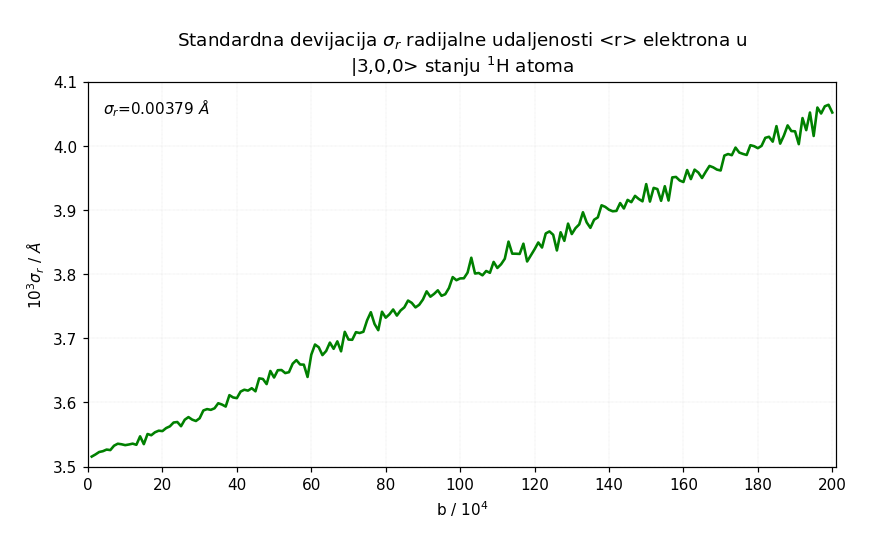
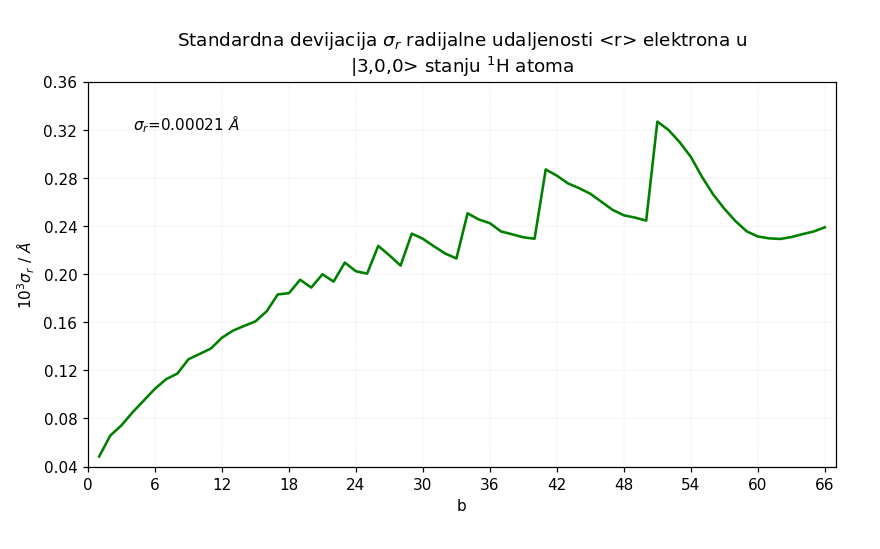
shit

diff --git a/Vjez7_error_block/Z7_H300.py b/Vjez7_error_block/Z7_H300.py
@@ -7,15 +7,15 @@ import matplotlib.ticker as tick
 U ovom kodu racuna se standardna devijacija srednje udaljenosti iz "rNw_H300.dat".
 '''
 
-Nw = 10000  #broj setaca
+#Nw = 10000  #broj setaca
 Nkmax = 200
 
-'''with warnings.catch_warnings():
+with warnings.catch_warnings():
     warnings.simplefilter("ignore")
-    frNw = np.loadtxt('rNw_H300.dat', comments='#', max_rows=Nw*200, usecols=(1,2,3))
+    fr = np.loadtxt('r_H300.dat', comments='#', usecols=2)
 fstdev = open('st_dev_H300.dat', 'w') #file za graf
 
-N = len(frNw)
+N = len(fr)
 
 for Nk in range(1, Nkmax+1):
     Nb = N//Nk #koriste se samo cijeli blokovi
@@ -23,21 +23,20 @@ for Nk in range(1, Nkmax+1):
         continue
     Sfb, Sf2b = 0.0, 0.0 #suma srednjih vrijednosti po bloku
     for b in range(Nb):
-        block = frNw[b*Nk : (b+1)*Nk]
-        r = np.linalg.norm(block, axis=1) #radijalna udaljenost
-        r_mean = np.mean(r)
-        Sfb += r_mean
-        Sf2b += r_mean**2
+        block = fr[b*Nk : (b+1)*Nk]  #uzima vrijednosti samo iz 2. stupca "r_H300.txt"
+        Sfk = np.sum(block)
+        Sfb += Sfk/Nk
+        Sf2b += (Sfk*Sfk)/(Nk*Nk)
     Smb = Sfb/Nb #srednja vrijednost
     var = ((Sf2b/Nb)-Smb**2)/(Nb-1) #varijanca
     fstdev.write(f"{Nk:<3d} {Smb:>13.9f} {np.sqrt(var):>12.9f}\n")
         
-fstdev.close()'''
+fstdev.close()
 
 fo = np.loadtxt('st_dev_H300.dat')
 bl, mr, dev = [], [], []
 
-for i in range(Nkmax):
+for i in range(len(fo)):
     bl.append(fo[i, 0])
     mr.append(fo[i, 1])
     dev.append(1000*fo[i, 2])
@@ -47,12 +46,12 @@ ax = fig.add_axes([0.10, 0.15, 0.85, 0.70])
 plt.rcParams.update({'font.size': 10}) #type: ignore
 ax.errorbar(bl, mr, yerr=dev, fmt='o-', capsize=2, label='data', ecolor='green', elinewidth=0.3,
             mfc='lime', mec='green', ms=5, mew=1)
-ax.set_xlim(0, 201)
-ax.set_ylim(13.51, 13.52)
-ax.set_xlabel('b / $10^{4}$')
+ax.set_xlim(0, 67)
+ax.set_ylim(13.1, 13.9)
+ax.set_xlabel('b')
 ax.set_ylabel('<r> / a$_{0}$')
-ax.xaxis.set_major_locator(tick.MultipleLocator(20))
-ax.yaxis.set_major_locator(tick.MultipleLocator(0.001))
+ax.xaxis.set_major_locator(tick.MultipleLocator(6))
+ax.yaxis.set_major_locator(tick.MultipleLocator(0.1))
 ax.grid(lw=0.2, linestyle=':')
 ax.set_title('Vrijednosti srednje radijalne udaljenosti <r> elektrona u\n|3,0,0> stanju $^{1}$H atoma dobivene dodatnim blokiranjem')
 ax.legend(loc='upper right')
@@ -64,14 +63,14 @@ fig = plt.figure(figsize=(8,5), dpi=110)
 ax = fig.add_axes([0.10, 0.15, 0.85, 0.70])
 plt.rcParams.update({'font.size': 10}) #type: ignore
 ax.plot(bl, dev, color='green', lw=1.7)
-ax.set_xlim(0, 201)
-ax.set_ylim(3.5, 4.1)
-ax.set_xlabel('b / $10^{4}$')
+ax.set_xlim(0, 67)
+ax.set_ylim(0.04, 0.36)
+ax.set_xlabel('b')
 ax.set_ylabel('$10^{3} \u03C3_{r}$ / $\u212B$')
-ax.xaxis.set_major_locator(tick.MultipleLocator(20))
-ax.yaxis.set_major_locator(tick.MultipleLocator(0.1))
+ax.xaxis.set_major_locator(tick.MultipleLocator(6))
+ax.yaxis.set_major_locator(tick.MultipleLocator(0.04))
 ax.grid(lw=0.2, linestyle=':')
 ax.set_title('Standardna devijacija $\u03C3_{r}$ radijalne udaljenosti <r> elektrona u\n|3,0,0> stanju $^{1}$H atoma')
 #ax.legend(loc='upper right')
-ax.text(4, 4.05, s='$\u03C3_{}$={} $\u212B$'.format('r', mdev))
+ax.text(4, 0.32, s='$\u03C3_{}$={} $\u212B$'.format('r', mdev))
 plt.show()
